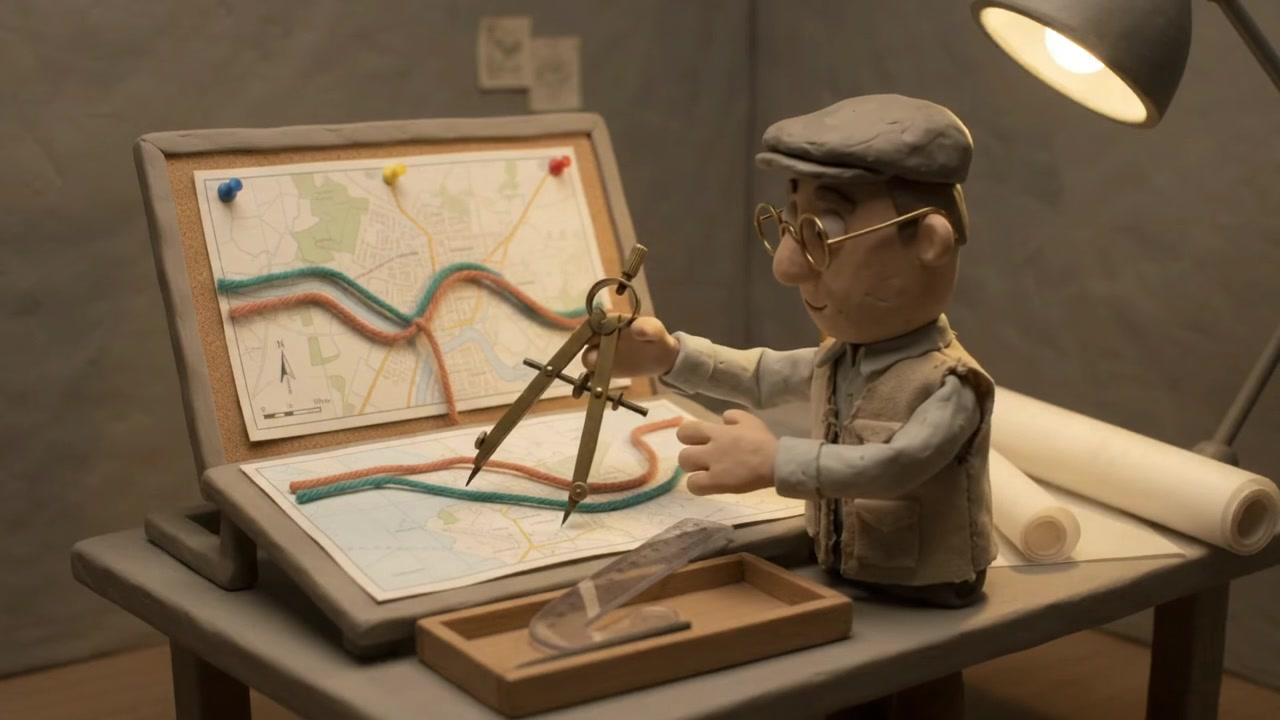
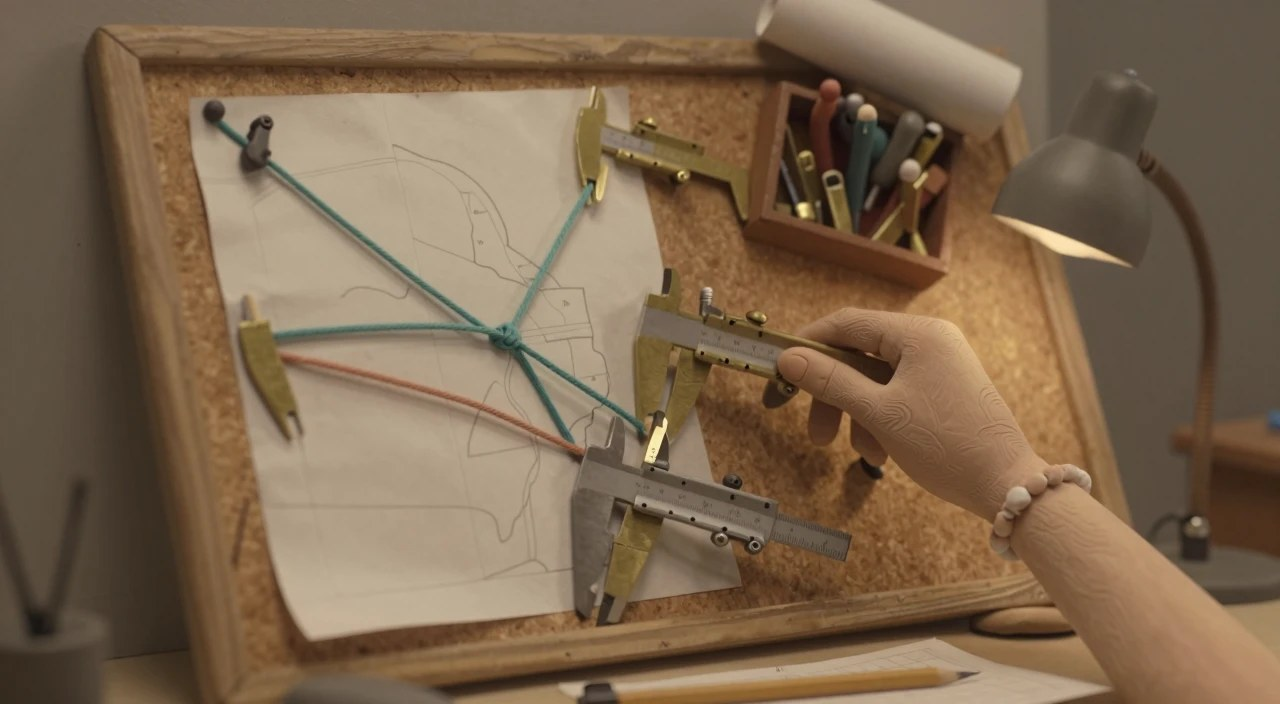
Update tutorial aesthetics

diff --git a/docs/tutorial/index.html b/docs/tutorial/index.html
@@ -3,7 +3,7 @@
 <head>
   <meta charset="utf-8">
   <meta name="viewport" content="width=device-width, initial-scale=1">
-  <title>Same data, two tools · Cox, CAST and the choice between them</title>
+  <title>The eternal question: which stats tool to choose · Cox and CAST</title>
   <meta name="description" content="A practitioner’s guide to choosing between Cox proportional hazards and CAST: when one hazard ratio is enough, when the effect changes over time or across people, and why the comparison has to be causal first.">
   <meta name="theme-color" content="#ffffff">
   <link rel="stylesheet" href="style.css">
@@ -24,7 +24,7 @@
   <section class="hero reading-wide" aria-labelledby="title">
     <div class="hero-copy">
       <div class="hero-heading"><p class="opening-thesis">A practitioner’s choice</p>
-      <h1 id="title">Same data.<br><em>Two tools.</em></h1></div>
+      <h1 id="title">The eternal question:<br><em>which stats tool to choose…</em></h1></div>
       <div class="hero-opening"><p class="dek">Cox proportional hazards and CAST both run on the same survival data. Which one you reach for depends on what you want to say and what you are willing to assume.</p>
       <a class="text-link" href="#two-tools">Start <span aria-hidden="true">↓</span></a></div>
     </div>
@@ -63,7 +63,7 @@
 
   <section class="reading-wide section" id="two-tools">
     <div class="section-lead"><p class="eyebrow">01 / The choice</p>
-      <h2>The claim picks the tool.</h2>
+      <h2>Well, it depends on the claim.</h2>
       <p>Suppose you want to say “treatment cut the event rate by 30 percent.” That is one number for the whole follow-up, and Cox gives it cheaply, provided the hazards stay in a constant ratio and one effect fits everyone. Suppose instead you want to say “16 more people in 100 were alive at three years, and the gain was gone by nine.” That is a curve, and CAST gives it, provided you have measured the confounders and will fit models for treatment, censoring and survival. The data can be the same. The claim and the assumptions are not.</p>
       <p>On the surveyor’s bench, two trails on a map stand for survival under treatment and under control. The dividers hold one fixed gap: on the log(−log S) scale, proportional hazards is exactly that constant gap (the check in section 02). The French curve follows whatever shape the gap takes: CAST’s trajectory of survival differences over time.</p>
     </div>
@@ -114,7 +114,7 @@
     <div class="section-lead">
       <p>Under “early benefit, later reversal” the survival difference starts positive and ends negative. A single hazard ratio averages a benefit and a harm into one number, and which number depends on how long people were followed. The horizon estimates keep the two apart. The fitted trajectory estimates where one turns into the other, and smooths: in this cohort it places the crossing about twenty months later than the truth. Reveal the truth to see this.</p>
       <p>The simulation carries a Cox model too. “Benefit throughout follow-up” is Cox’s home ground: that scenario is generated from a constant hazard ratio, and the Cox fit lands on the truth (hazard ratio 0.54, proportional-hazards test p = 0.22). Under the reversal the same model returns 0.87 with a failed proportionality test, and the survival differences it implies stay between +1 and +4 points while the truth runs from +16 to −6. Show the Cox model below to compare.</p>
-      <figure class="notebook-figure still-figure"><a href="assets/art/methods/two-tools-poster.jpg" target="_blank" rel="noopener"><img src="assets/art/methods/two-tools-poster.jpg" width="1280" height="720" loading="lazy" alt="A clay surveyor in a flat cap and round glasses holds brass dividers over a map pinned to a corkboard, where a teal and a terracotta yarn trail run side by side and then cross; a grey French curve waits in a wooden tray."></a><figcaption>Where the trails separate steadily, the dividers fit. Where they cross, no single setting touches both.</figcaption></figure>
+      <figure class="notebook-figure still-figure"><a href="assets/art/methods/two-tools-poster.jpg" target="_blank" rel="noopener"><img src="assets/art/methods/two-tools-poster.jpg" width="1280" height="704" loading="lazy" alt="A clay hand with a beaded bracelet holds a steel caliper over a map pinned to a corkboard, where teal yarn trails meet at a knot and a terracotta trail runs off on its own; a second caliper is pinned below, and a tray of pens and a desk lamp sit at the edge of the board."></a><figcaption>Where the trails separate steadily, the calipers fit. Where they cross, no single setting touches both.</figcaption></figure>
       <figure class="placeholder-figure" id="separation-shapes" aria-label="Figure to come: three shapes of separation">
         <strong>Figure to come · Three shapes of separation</strong>
         Three pairs of survival curves: steady separation, early benefit then reversal, delayed benefit. Under each, the survival-difference curve over time, with the single Cox hazard ratio drawn as a flat dashed line on the log-hazard-ratio scale. Where one number tells the story, and where it hides it. Computed, not hand-drawn.

diff --git a/tutorial/index.html b/tutorial/index.html
@@ -3,7 +3,7 @@
 <head>
   <meta charset="utf-8">
   <meta name="viewport" content="width=device-width, initial-scale=1">
-  <title>Same data, two tools · Cox, CAST and the choice between them</title>
+  <title>The eternal question: which stats tool to choose · Cox and CAST</title>
   <meta name="description" content="A practitioner’s guide to choosing between Cox proportional hazards and CAST: when one hazard ratio is enough, when the effect changes over time or across people, and why the comparison has to be causal first.">
   <meta name="theme-color" content="#ffffff">
   <link rel="stylesheet" href="style.css">
@@ -24,7 +24,7 @@
   <section class="hero reading-wide" aria-labelledby="title">
     <div class="hero-copy">
       <div class="hero-heading"><p class="opening-thesis">A practitioner’s choice</p>
-      <h1 id="title">Same data.<br><em>Two tools.</em></h1></div>
+      <h1 id="title">The eternal question:<br><em>which stats tool to choose…</em></h1></div>
       <div class="hero-opening"><p class="dek">Cox proportional hazards and CAST both run on the same survival data. Which one you reach for depends on what you want to say and what you are willing to assume.</p>
       <a class="text-link" href="#two-tools">Start <span aria-hidden="true">↓</span></a></div>
     </div>
@@ -63,7 +63,7 @@
 
   <section class="reading-wide section" id="two-tools">
     <div class="section-lead"><p class="eyebrow">01 / The choice</p>
-      <h2>The claim picks the tool.</h2>
+      <h2>Well, it depends on the claim.</h2>
       <p>Suppose you want to say “treatment cut the event rate by 30 percent.” That is one number for the whole follow-up, and Cox gives it cheaply, provided the hazards stay in a constant ratio and one effect fits everyone. Suppose instead you want to say “16 more people in 100 were alive at three years, and the gain was gone by nine.” That is a curve, and CAST gives it, provided you have measured the confounders and will fit models for treatment, censoring and survival. The data can be the same. The claim and the assumptions are not.</p>
       <p>On the surveyor’s bench, two trails on a map stand for survival under treatment and under control. The dividers hold one fixed gap: on the log(−log S) scale, proportional hazards is exactly that constant gap (the check in section 02). The French curve follows whatever shape the gap takes: CAST’s trajectory of survival differences over time.</p>
     </div>
@@ -114,7 +114,7 @@
     <div class="section-lead">
       <p>Under “early benefit, later reversal” the survival difference starts positive and ends negative. A single hazard ratio averages a benefit and a harm into one number, and which number depends on how long people were followed. The horizon estimates keep the two apart. The fitted trajectory estimates where one turns into the other, and smooths: in this cohort it places the crossing about twenty months later than the truth. Reveal the truth to see this.</p>
       <p>The simulation carries a Cox model too. “Benefit throughout follow-up” is Cox’s home ground: that scenario is generated from a constant hazard ratio, and the Cox fit lands on the truth (hazard ratio 0.54, proportional-hazards test p = 0.22). Under the reversal the same model returns 0.87 with a failed proportionality test, and the survival differences it implies stay between +1 and +4 points while the truth runs from +16 to −6. Show the Cox model below to compare.</p>
-      <figure class="notebook-figure still-figure"><a href="assets/art/methods/two-tools-poster.jpg" target="_blank" rel="noopener"><img src="assets/art/methods/two-tools-poster.jpg" width="1280" height="720" loading="lazy" alt="A clay surveyor in a flat cap and round glasses holds brass dividers over a map pinned to a corkboard, where a teal and a terracotta yarn trail run side by side and then cross; a grey French curve waits in a wooden tray."></a><figcaption>Where the trails separate steadily, the dividers fit. Where they cross, no single setting touches both.</figcaption></figure>
+      <figure class="notebook-figure still-figure"><a href="assets/art/methods/two-tools-poster.jpg" target="_blank" rel="noopener"><img src="assets/art/methods/two-tools-poster.jpg" width="1280" height="704" loading="lazy" alt="A clay hand with a beaded bracelet holds a steel caliper over a map pinned to a corkboard, where teal yarn trails meet at a knot and a terracotta trail runs off on its own; a second caliper is pinned below, and a tray of pens and a desk lamp sit at the edge of the board."></a><figcaption>Where the trails separate steadily, the calipers fit. Where they cross, no single setting touches both.</figcaption></figure>
       <figure class="placeholder-figure" id="separation-shapes" aria-label="Figure to come: three shapes of separation">
         <strong>Figure to come · Three shapes of separation</strong>
         Three pairs of survival curves: steady separation, early benefit then reversal, delayed benefit. Under each, the survival-difference curve over time, with the single Cox hazard ratio drawn as a flat dashed line on the log-hazard-ratio scale. Where one number tells the story, and where it hides it. Computed, not hand-drawn.
